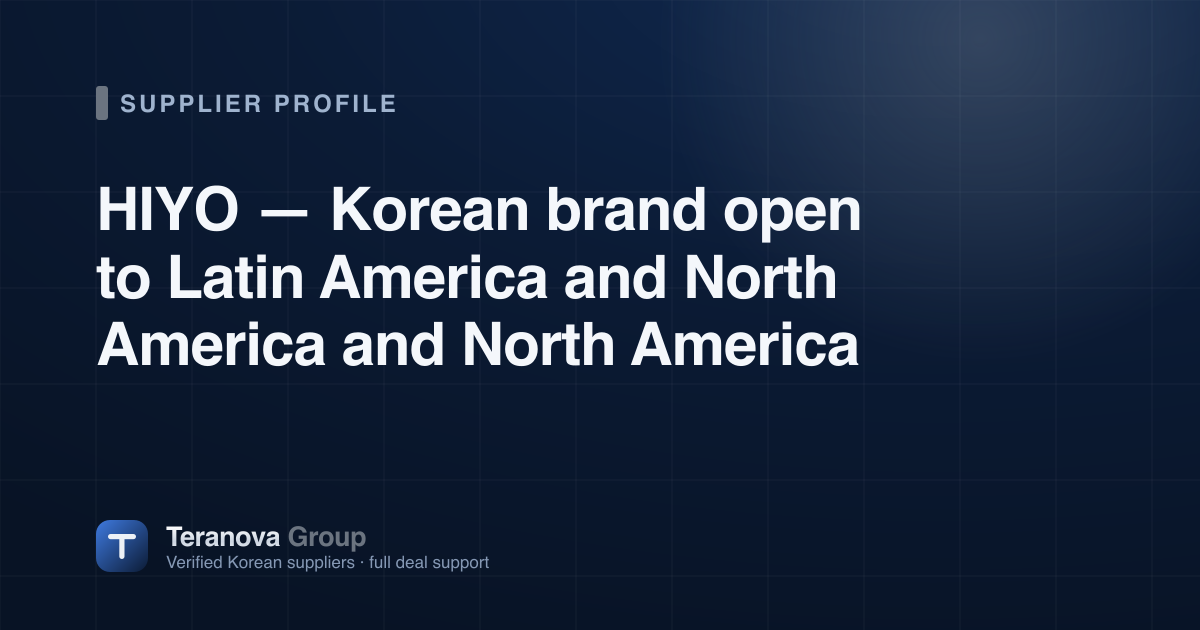
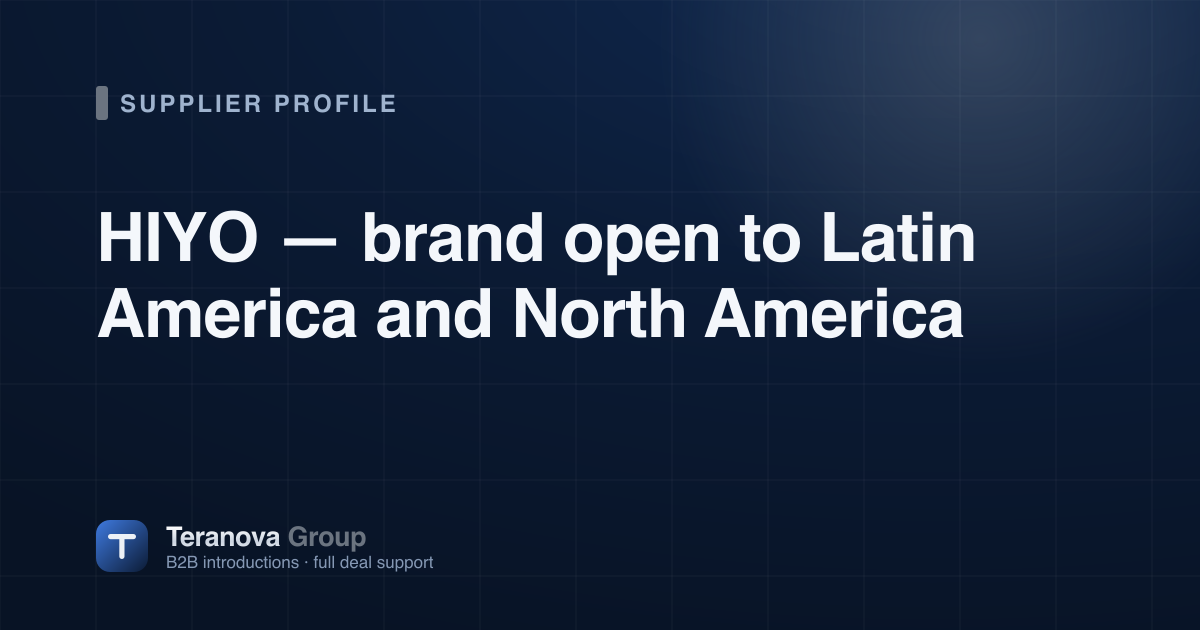
fix(catalog): HIYO profile states no country and no ongoing clarification (T-20261021-043)
Reviewer fixes_needed (codex, 2026-10-22):
1. No local primary source says where HIYO is based (the fair and the
   language of the thread are not proof), so the country is left unknown:
   new optional SupplierProfile.countryUnconfirmed hides the catalog-card
   origin chip and the JSON-LD address; origin is empty and the profile
   header renders no origin chip; "Korean brand"/"Republic of Korea" removed
   from tagline, descriptor, about, facts, SEO in all 13 locales; OG title
   and footer no longer say Korean.
2. about[1] and exportNote no longer claim Teranova is already confirming
   terms or that the company is considering market entry: now "the company
   has not yet confirmed" / "has shown interest".

Changed region(s): [[0.0617, 0.2714, 0.8325, 0.6032], [0.1233, 0.8746, 0.4008, 0.9048]]

diff --git a/src/data/suppliers.ts b/src/data/suppliers.ts
@@ -688,6 +688,10 @@ export interface SupplierProfile {
      splits by category. Omitted means Korea — that is where the platform
      started and where every supplier published before August 2026 sits. */
   country?: CountryKey;
+  /* True when no local primary source says where the company is based. The
+     catalog card, the profile header and the JSON-LD then carry no country at
+     all instead of falling back to Korea. */
+  countryUnconfirmed?: boolean;
   name: string; // company display name (language-neutral)
   brand: string; // primary brand (language-neutral)
   status: 'visited' | 'provided';
@@ -2630,7 +2634,7 @@ export const suppliers: SupplierProfile[] = [
   {
     slug: 'hiyo',
     category: 'cosmetics',
-    country: 'kr',
+    countryUnconfirmed: true,
     name: 'HIYO',
     brand: 'HIYO',
     status: 'provided',
@@ -2641,7 +2645,9 @@ export const suppliers: SupplierProfile[] = [
        No materials and no permission to use, translate or publish materials
        were received, so the page carries only neutral facts from that thread:
        the brand name, the InterCHARM Korea 2026 meeting and the company's
-       interest in Latin America and North America. Product range, category
+       interest in Latin America and North America. The country is not stated
+       by any local source about HIYO (the trade fair and the language of the
+       thread do not prove it), so it is left unknown. Product range, category
        claims (scalp/hair care was our wording, not confirmed), images, prices,
        MOQ, certificates and contacts are intentionally absent.
        Source-to-claim: AI_COORDINATION/Claude/evidence/T-20261015-015/09_HIYO.md. */

diff --git a/src/data/jsonld.ts b/src/data/jsonld.ts
@@ -147,7 +147,7 @@ export function supplierJsonLd(lang: Lang, profile: SupplierProfile) {
       alternateName: profile.brand,
       url,
       description: `${c.descriptor}. ${c.about[0] ?? ''}`,
-      address: { '@type': 'PostalAddress', addressCountry: 'KR' },
+      ...(profile.countryUnconfirmed ? {} : { address: { '@type': 'PostalAddress', addressCountry: 'KR' } }),
       brand: { '@type': 'Brand', name: profile.brand },
       makesOffer: c.lines.filter((l) => !l.planned).map((l) => ({
         '@type': 'Offer',
